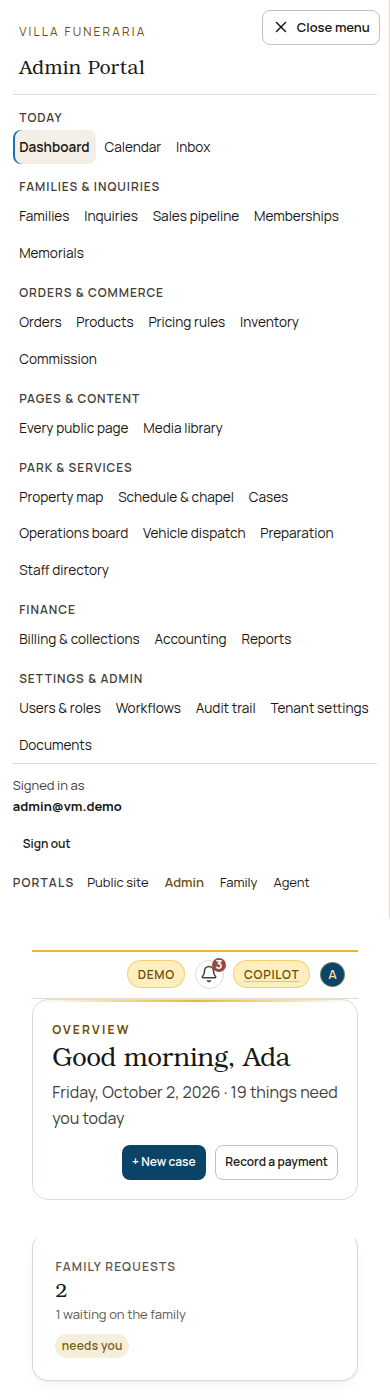
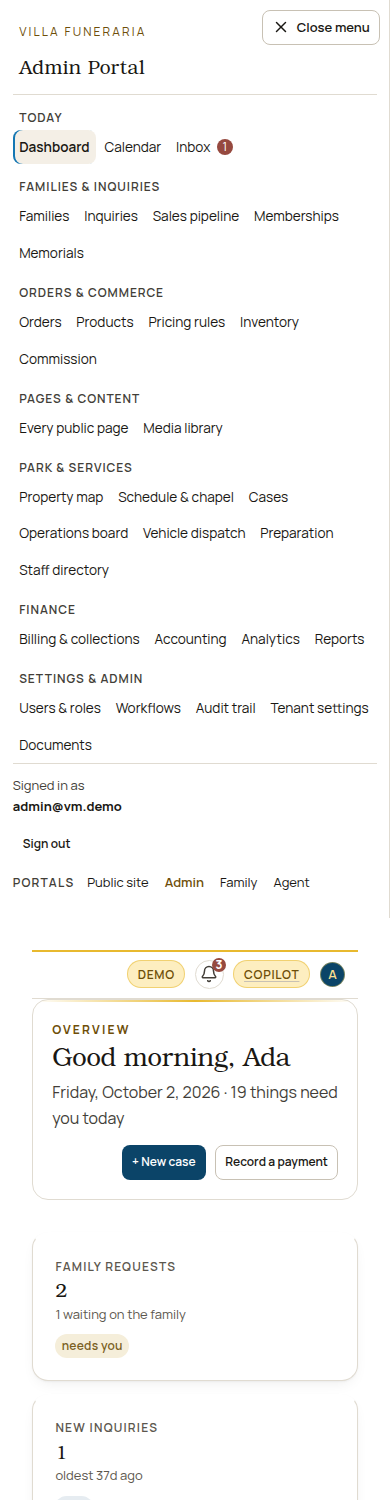
feat(admin+storefront): clean Inbox pointer and running basket counts
Admin (captain's inbox direction): the Inbox's notifications block becomes a
pointer (state + count + link) so no two screens do the same job silently; the
rail keeps one obvious path per tool.

Storefront: the Add-to-cart / Add-to-quote controls now repeat the running count
where the visitor pressed — 'Added verified · N items in cart' / 'N lines in your
quote' — via one pure helper (lib/basket-guidance.ts) that follows the header's
own rule (cart counts items, quote counts lines). Evidence: the quote/cart pages
and the fresh admin screenshots in docs/08-delivery/{admin-revision-design,
basket-guidance-design}.

diff --git a/app/(staff)/staff/inbox/page.tsx b/app/(staff)/staff/inbox/page.tsx
@@ -4,7 +4,6 @@ import { Card } from "@/components/ui/card";
 import { PageHeader, PageSection } from "@/components/ui/page";
 import { ErrorState, ForbiddenState } from "@/components/ui/states";
 import { StatCard, StatusChip } from "@/components/kit";
-import { Badge } from "@/components/ui/badge";
 import { NeedsYou } from "@/components/staff/needs-you";
 import { ApiError } from "@/lib/api-client/api-error";
 import { listChatThreads } from "@/lib/api-client/chat-store";
@@ -18,12 +17,7 @@ import { loadWorkOrders, type WorkOrderList } from "@/lib/api-client/work-orders
 import { listFamilyRequests, type FamilyRequest } from "@/lib/api-client/family";
 import { listDocuments, type Document } from "@/lib/api-client/documents";
 import { loadNotificationCatalogue } from "@/lib/api-client/notifications";
-import {
-  NOTIFICATION_SERVICE_NOTE,
-  audienceLabel,
-  channelLabel,
-  type NotificationCatalogue,
-} from "@/lib/notifications";
+import { NOTIFICATION_SERVICE_NOTE, type NotificationCatalogue } from "@/lib/notifications";
 import { buildNeedsYou } from "@/lib/staff-queue";
 
 export const metadata = { title: "Inbox — Admin Portal" };
@@ -177,24 +171,13 @@ export default async function InboxPage() {
             </div>
           }
         >
-          <p className="text-sm text-muted">{NOTIFICATION_SERVICE_NOTE}</p>
-          <ul className="stack-2">
-            {templates.map((template) => (
-              <li key={template.id} className="row row--space row--wrap">
-                <span>
-                  <strong>{template.message}</strong>
-                  <span className="text-sm text-muted"> · {template.event}</span>
-                </span>
-                <span className="row row--wrap">
-                  <span className="text-sm text-muted">{audienceLabel(template.audiences)}</span>
-                  <Badge tone="neutral">{channelLabel(template.channels)}</Badge>
-                </span>
-              </li>
-            ))}
-          </ul>
+          <p className="text-sm text-muted">
+            {NOTIFICATION_SERVICE_NOTE} {templates.length} message
+            {templates.length === 1 ? "" : "s"} are designed and waiting on it.
+          </p>
           <p className="mt-4 mb-0">
             <Link href="/staff/notifications" className="link-muted text-sm">
-              Open the full catalogue and the sent log →
+              Open the notification catalogue and the sent log →
             </Link>
           </p>
         </Card>

diff --git a/components/catalogue-add-button.tsx b/components/catalogue-add-button.tsx
@@ -2,6 +2,7 @@
 
 import { useEffect, useRef, useState } from "react";
 import { Button } from "@/components/ui/button";
+import { cartAddedLabel } from "@/lib/basket-guidance";
 import { useCart, type CartLine } from "@/lib/cart/cart-context";
 
 export type CatalogueAddItem = Omit<CartLine, "quantity">;
@@ -41,6 +42,11 @@ export function CatalogueAddButton({
   const cart = useCart();
   const [added, setAdded] = useState(false);
   const timer = useRef<ReturnType<typeof setTimeout> | null>(null);
+  // The header counts cart ITEMS (a quantity is a unit) — the confirmation says
+  // how many are in the cart NOW, so after an add the running count is visible
+  // where the visitor pressed, not only in the header badge.
+  const cartItems = cart.lines.reduce((total, line) => total + line.quantity, 0);
+  const addedLabel = cartAddedLabel(cartItems);
 
   useEffect(
     () => () => {
@@ -57,9 +63,11 @@ export function CatalogueAddButton({
       aria-label={
         // WCAG 2.5.3 — the accessible name starts with the visible label, so a
         // speech user can say what they see ("Add 3 days: Embalming — 3 days").
-        quantity > 1
-          ? `${label}: ${item.name} (quantity ${quantity})`
-          : `${label}: ${item.name}`
+        added
+          ? addedLabel
+          : quantity > 1
+            ? `${label}: ${item.name} (quantity ${quantity})`
+            : `${label}: ${item.name}`
       }
       onClick={() => {
         cart.add(item, quantity);
@@ -68,7 +76,7 @@ export function CatalogueAddButton({
         timer.current = setTimeout(() => setAdded(false), ADDED_LABEL_MS);
       }}
     >
-      {added ? "Added ✓" : label}
+      {added ? addedLabel : label}
     </Button>
   );
 }

diff --git a/components/villa/item-quote-button.tsx b/components/villa/item-quote-button.tsx
@@ -2,6 +2,7 @@
 
 import { useRef, useState } from "react";
 import { Button } from "@/components/ui/button";
+import { quoteAddedLabel } from "@/lib/basket-guidance";
 import { useQuoteBasket } from "@/lib/quote-basket/quote-basket-context";
 import { quoteLineDescriptor, type QuoteLineDescriptor } from "@/lib/quote-basket/quote-line";
 
@@ -50,13 +51,16 @@ export function ItemQuoteButton({
   const basket = useQuoteBasket();
   const [added, setAdded] = useState(false);
   const timer = useRef<ReturnType<typeof setTimeout> | null>(null);
+  // The header counts quote LINES (a line is what the office quotes); the
+  // confirmation repeats that running count where the visitor pressed.
+  const addedLabel = quoteAddedLabel(basket.lines.length);
 
   return (
     <Button
       variant="accent"
       size="sm"
       aria-live="polite"
-      aria-label={`${label}: ${name}`}
+      aria-label={added ? addedLabel : `${label}: ${name}`}
       onClick={() => {
         for (const line of lines) {
           const kind = line.kind ?? "service";
@@ -74,7 +78,7 @@ export function ItemQuoteButton({
         timer.current = setTimeout(() => setAdded(false), ADDED_LABEL_MS);
       }}
     >
-      {added ? "Added ✓" : label}
+      {added ? addedLabel : label}
     </Button>
   );
 }

diff --git a/components/villa/lot-quote-button.tsx b/components/villa/lot-quote-button.tsx
@@ -2,6 +2,7 @@
 
 import { useRef, useState } from "react";
 import { Button } from "@/components/ui/button";
+import { quoteAddedLabel } from "@/lib/basket-guidance";
 import { useQuoteBasket } from "@/lib/quote-basket/quote-basket-context";
 import { quoteLineDescriptor } from "@/lib/quote-basket/quote-line";
 
@@ -37,13 +38,14 @@ export function LotQuoteButton({
   const basket = useQuoteBasket();
   const [added, setAdded] = useState(false);
   const timer = useRef<ReturnType<typeof setTimeout> | null>(null);
+  const addedLabel = quoteAddedLabel(basket.lines.length);
 
   return (
     <Button
       variant="accent"
       size="sm"
       aria-live="polite"
-      aria-label={`Add to quote: ${product} lot`}
+      aria-label={added ? addedLabel : `Add to quote: ${product} lot`}
       onClick={() => {
         basket.add({
           sku: `LOT-${product.toUpperCase().replace(/[^A-Z0-9]+/g, "-")}`,
@@ -58,7 +60,7 @@ export function LotQuoteButton({
         timer.current = setTimeout(() => setAdded(false), ADDED_LABEL_MS);
       }}
     >
-      {added ? "Added ✓" : "Add to quote"}
+      {added ? addedLabel : "Add to quote"}
     </Button>
   );
 }

diff --git a/lib/basket-guidance.ts b/lib/basket-guidance.ts
@@ -1,0 +1,22 @@
+/**
+ * Basket guidance — the running-count confirmation the "Add to cart" / "Add to
+ * quote" controls show after a successful add (captain, 2026-10-02).
+ *
+ * The visible header badges already carry the basket sizes, but the visitor who
+ * has just pressed Add needs the answer where they are: how many are in the
+ * basket *now*. One pure home for the wording, so the cart control, the quote
+ * controls and the plan page's add control cannot drift — and the counts follow
+ * the header's own rule (`components/ui/public-shell.tsx`): the CART counts
+ * items (a quantity is a unit), the QUOTE counts lines (a line is what the office
+ * quotes).
+ */
+
+/** “Added ✓ · 3 items in cart” — the cart confirmation after an add. */
+export function cartAddedLabel(items: number): string {
+  return `Added ✓ · ${items} ${items === 1 ? "item" : "items"} in cart`;
+}
+
+/** “Added ✓ · 3 lines in your quote” — the quote confirmation after an add. */
+export function quoteAddedLabel(lines: number): string {
+  return `Added ✓ · ${lines} ${lines === 1 ? "line" : "lines"} in your quote`;
+}

diff --git a/app/(public)/plans/[sku]/add-to-quote.tsx b/app/(public)/plans/[sku]/add-to-quote.tsx
@@ -4,6 +4,7 @@ import { useRouter } from "next/navigation";
 import { useState } from "react";
 import { Plus } from "lucide-react";
 import { Button } from "@/components/ui/button";
+import { quoteAddedLabel } from "@/lib/basket-guidance";
 import { useQuoteBasket, type QuoteLine } from "@/lib/quote-basket/quote-basket-context";
 
 type Props = {
@@ -16,6 +17,7 @@ export function AddToQuoteControl({ item, withIcon = false }: Props) {
   const router = useRouter();
   const quote = useQuoteBasket();
   const [added, setAdded] = useState(false);
+  const addedLabel = quoteAddedLabel(quote.lines.length);
 
   return (
     <div className="row row--wrap">
@@ -26,7 +28,7 @@ export function AddToQuoteControl({ item, withIcon = false }: Props) {
         }}
       >
         {withIcon && !added ? <Plus aria-hidden="true" size={16} /> : null}
-        {added ? "Added ✓ — add more" : "Add to quote"}
+        {added ? addedLabel : "Add to quote"}
       </Button>
       {added ? (
         <Button variant="secondary" onClick={() => router.push("/checkout")}>

diff --git a/tests/unit/basket-guidance.test.ts b/tests/unit/basket-guidance.test.ts
@@ -1,0 +1,22 @@
+import { describe, expect, it } from "vitest";
+import { cartAddedLabel, quoteAddedLabel } from "@/lib/basket-guidance";
+
+/**
+ * The running-count confirmation on the add controls (captain, 2026-10-02:
+ * “the page should provide a visual or guidance … on how many are he requesting
+ * for quotes or adding to cart now”).
+ *
+ * The counts follow the header's own rule — the CART counts items, the QUOTE
+ * counts lines — so the confirmation and the header badge can never disagree.
+ */
+describe("basket guidance", () => {
+  it("names the cart's running item count", () => {
+    expect(cartAddedLabel(1)).toBe("Added ✓ · 1 item in cart");
+    expect(cartAddedLabel(3)).toBe("Added ✓ · 3 items in cart");
+  });
+
+  it("names the quote's running line count", () => {
+    expect(quoteAddedLabel(1)).toBe("Added ✓ · 1 line in your quote");
+    expect(quoteAddedLabel(3)).toBe("Added ✓ · 3 lines in your quote");
+  });
+});

diff --git a/docs/08-delivery/basket-guidance-design/README.md b/docs/08-delivery/basket-guidance-design/README.md
@@ -1,0 +1,56 @@
+# Basket guidance — the running count on the add controls
+
+**Task:** `villa-admin-ia` · **Date:** 2026-10-02 · **Mode:** local-only ship
+**Direction (captain, 2026-10-02):** “in requesting quotes and or adding carts, the page should
+provide a visual or guidance for the visitor on how many are he requesting for quotes or adding to
+cart now.”
+
+The header badges (`Your Cart n` · `Your Quote n`) already carry the basket sizes, and the `/cart`
+and `/quote` pages already lead with their totals. What was missing is the answer **where the
+visitor just pressed Add**: the confirmation said “Added ✓” but not how many are in the basket now.
+
+## What changed
+
+One pure home for the wording — `lib/basket-guidance.ts`:
+
+- `cartAddedLabel(items)` → “Added ✓ · 3 items in cart”
+- `quoteAddedLabel(lines)` → “Added ✓ · 3 lines in your quote”
+
+The counts follow the header's own rule (`components/ui/public-shell.tsx`): the **cart counts
+items** (a quantity is a unit) and the **quote counts lines** (a line is what the office quotes), so
+the confirmation and the header badge can never disagree. Four add controls now show it, and their
+accessible name carries the same running count while the added state is up:
+
+| Control | Surface | File |
+|---|---|---|
+| Add to cart | `/products`, `/plans`, `/services` rows | `components/catalogue-add-button.tsx` |
+| Add to Quote (service/item) | `/services`, embalming picker, price list | `components/villa/item-quote-button.tsx` |
+| Add to quote (lot) | `/lots/price-list-2026` | `components/villa/lot-quote-button.tsx` |
+| Add to quote (package) | `/plans/[sku]` | `app/(public)/plans/[sku]/add-to-quote.tsx` |
+
+The `/quote` and `/cart` pages keep their existing lead counts (“N things · one written quotation”,
+“N items — prices are confirmed at checkout”) and their section heads (“In your cart · 2 items”);
+no second counting rule was added.
+
+## Evidence (1440 and 390)
+
+Production build (`npm run build`, `next start`), driven with `chrome-devtools-axi`; the add
+confirmations were read back from the live page:
+
+- `/products` add → **“Added ✓ · 2 items in cart”**
+- `/services` add → **“Added ✓ · 1 line in your quote”**
+- `/lots/price-list-2026` add → **“Added ✓ · 2 lines in your quote”**
+
+| Shot | File |
+|---|---|
+| The quote page: header `Your Quote 2`, lead “2 things”, “2 items — 1 published · 1 by hand” at 1440 | `quote-1440.png` |
+| The quote page at 390 | `quote-390.png` |
+| The cart page: header `Your Cart 2`, lead “2 items”, “In your cart · 2 items” at 1440 | `cart-1440.png` |
+| The cart page at 390 | `cart-390.png` |
+
+## Boundary
+
+The guidance is presentation only: the counts come from the same client-side cart / quote-basket
+contexts the pages already use (`lib/cart/cart-context.tsx`, `lib/quote-basket/quote-basket-context.tsx`),
+and no server write is added. `tests/unit/basket-guidance.test.ts` pins the wording and the
+singular/plural rule.

diff --git a/docs/08-delivery/admin-revision-design/README.md b/docs/08-delivery/admin-revision-design/README.md
@@ -65,7 +65,6 @@ The board's composition, in reading order:
    vehicle trips · payment dues · work-order dues).
 
 ## 3 · The four added surfaces
-
 - **Inbox** (`/staff/inbox`) — the Today triage surface, one door for both halves of the plan:
   the durable family/agent ↔ office **conversations** (the §9.6 chat that landed on `main` in
   `09c9d3a`, with the office's unread count on the rail) and the cross-record **Needs you today**
@@ -73,6 +72,12 @@ The board's composition, in reading order:
   one typed list. The designed notification catalogue is surfaced below; the catalogue keeps its
   own route and Inbox links to it. This branch rebased onto the chat task and merged the two
   rather than replace it.
+
+  The captain's steering (inbox `001.msg`): the admin must be CLEAN and instantly legible,
+  one obvious path to each tool, no duplicated entries, and no two screens doing the same job
+  silently. So the Inbox's notifications block is a POINTER (state + count + link), not a second
+  catalogue; the rail lists each tool once; and the routes the board does not surface (Notifications,
+  Work orders, AI Copilot) keep their screens and are reached from a clearly named door.
 - **Memorials** (`/staff/memorials`) — each household person with the family's consent switch
   (published / not public) and the fields chosen, read from the same consent store the family page
   writes. Nothing is published by default; no digital-memorial service exists.
@@ -127,7 +132,7 @@ invoice is inside it).
 |---|---|
 | `npm run lint` | 0 errors (4 pre-existing warnings in untouched files) |
 | `npm run typecheck` | pass |
-| `npm test` | **3,154 tests / 286 files pass** (a single timeout on one loaded run was flaky; two clean runs pass) |
+| `npm test` | **3,248 tests / 296 files pass** |
 | `npm run build` | pass; `/staff/inbox`, `/staff/media`, `/staff/memorials`, `/staff/preparation` in the route manifest |
 
 Tests updated/added: `tests/unit/nav.test.ts` (the board's exact groups, items and kept routes),
